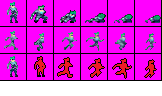
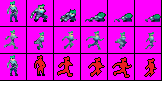
Update: Player Sprite/Height in-game

diff --git a/src/Players/Hero.java b/src/Players/Hero.java
@@ -37,7 +37,7 @@ public class Hero extends Player {
             put("STAND_RIGHT", new Frame[] {
                     new FrameBuilder(spriteSheet.getSprite(2, 0))
                             .withScale(3)
-                            .withBounds(8, 9, 8, 9)
+                            .withBounds(8, 10, 8, 10)
                             .build()
             });
 
@@ -45,34 +45,34 @@ public class Hero extends Player {
                     new FrameBuilder(spriteSheet.getSprite(2, 0))
                             .withScale(3)
                             .withImageEffect(ImageEffect.FLIP_HORIZONTAL)
-                            .withBounds(8, 9, 8, 9)
+                            .withBounds(8, 10, 8, 10)
                             .build()
             });
 
             put("WALK_RIGHT", new Frame[] {
                     new FrameBuilder(spriteSheet.getSprite(1, 0), 14)
                             .withScale(3)
-                            .withBounds(8, 9, 8, 9)
+                            .withBounds(8, 10, 8, 10)
                             .build(),
                     new FrameBuilder(spriteSheet.getSprite(1, 1), 14)
                             .withScale(3)
-                            .withBounds(8, 9, 8, 9)
+                            .withBounds(8, 10, 8, 10)
                             .build(),
                     new FrameBuilder(spriteSheet.getSprite(1, 2), 14)
                             .withScale(3)
-                            .withBounds(8, 9, 8, 9)
+                            .withBounds(8, 10, 8, 10)
                             .build(),
                     new FrameBuilder(spriteSheet.getSprite(1, 3), 14)
                             .withScale(3)
-                            .withBounds(8, 9, 8, 9)
+                            .withBounds(8, 10, 8, 10)
                             .build(),
                     new FrameBuilder(spriteSheet.getSprite(1, 4), 14)
                             .withScale(3)
-                            .withBounds(8, 9, 8, 9)
+                            .withBounds(8, 10, 8, 10)
                             .build(),
                     new FrameBuilder(spriteSheet.getSprite(1, 5), 14)
                             .withScale(3)
-                            .withBounds(8, 9, 8, 9)
+                            .withBounds(8, 10, 8, 10)
                             .build()
             });
 
@@ -80,39 +80,39 @@ public class Hero extends Player {
                     new FrameBuilder(spriteSheet.getSprite(1, 0), 14)
                             .withScale(3)
                             .withImageEffect(ImageEffect.FLIP_HORIZONTAL)
-                            .withBounds(8, 9, 8, 9)
+                            .withBounds(8, 10, 8, 10)
                             .build(),
                     new FrameBuilder(spriteSheet.getSprite(1, 1), 14)
                             .withScale(3)
                             .withImageEffect(ImageEffect.FLIP_HORIZONTAL)
-                            .withBounds(8, 9, 8, 9)
+                            .withBounds(8, 10, 8, 10)
                             .build(),
                     new FrameBuilder(spriteSheet.getSprite(1, 2), 14)
                             .withScale(3)
                             .withImageEffect(ImageEffect.FLIP_HORIZONTAL)
-                            .withBounds(8, 9, 8, 9)
+                            .withBounds(8, 10, 8, 10)
                             .build(),
                     new FrameBuilder(spriteSheet.getSprite(1, 3), 14)
                             .withScale(3)
                             .withImageEffect(ImageEffect.FLIP_HORIZONTAL)
-                            .withBounds(8, 9, 8, 9)
+                            .withBounds(8, 10, 8, 10)
                             .build(),
                     new FrameBuilder(spriteSheet.getSprite(1, 4), 14)
                             .withScale(3)
                             .withImageEffect(ImageEffect.FLIP_HORIZONTAL)
-                            .withBounds(8, 9, 8, 9)
+                            .withBounds(8, 10, 8, 10)
                             .build(),
                     new FrameBuilder(spriteSheet.getSprite(1, 5), 14)
                             .withScale(3)
                             .withImageEffect(ImageEffect.FLIP_HORIZONTAL)
-                            .withBounds(8, 9, 8, 9)
+                            .withBounds(8, 10, 8, 10)
                             .build()
             });
 
             put("JUMP_RIGHT", new Frame[] {
                     new FrameBuilder(spriteSheet.getSprite(1, 2))
                             .withScale(3)
-                            .withBounds(8, 9, 8, 9)
+                            .withBounds(8, 10, 8, 10)
                             .build()
             });
 
@@ -120,29 +120,29 @@ public class Hero extends Player {
                     new FrameBuilder(spriteSheet.getSprite(1, 2))
                             .withScale(3)
                             .withImageEffect(ImageEffect.FLIP_HORIZONTAL)
-                            .withBounds(8, 9, 8, 9)
+                            .withBounds(8, 10, 8, 10)
                             .build()
             });
 
             put("FALL_RIGHT", new Frame[] {
                     new FrameBuilder(spriteSheet.getSprite(1, 3))
                             .withScale(3)
-                            .withBounds(8, 9, 8, 9)
+                            .withBounds(8, 10, 8, 10)
                             .build()
             });
 
             put("FALL_LEFT", new Frame[] {
-                    new FrameBuilder(spriteSheet.getSprite(1, 3))
+                    new FrameBuilder(spriteSheet.getSprite(1, 3)) 
                             .withScale(3)
                             .withImageEffect(ImageEffect.FLIP_HORIZONTAL)
-                            .withBounds(8, 9, 8, 9)
+                            .withBounds(8, 10, 8, 10)
                             .build()
             });
 
             put("CROUCH_RIGHT", new Frame[] {
                     new FrameBuilder(spriteSheet.getSprite(1, 4))
                             .withScale(3)
-                            .withBounds(8, 12, 8, 6)
+                            .withBounds(8, 13, 8, 7)
                             .build()
             });
 
@@ -150,14 +150,14 @@ public class Hero extends Player {
                     new FrameBuilder(spriteSheet.getSprite(1, 4))
                             .withScale(3)
                             .withImageEffect(ImageEffect.FLIP_HORIZONTAL)
-                            .withBounds(8, 12, 8, 6)
+                            .withBounds(8, 13, 8, 7)
                             .build()
             });
 
             put("HURT_STAND_RIGHT", new Frame[] {
                     new FrameBuilder(spriteSheet.getSprite(2,1))
                             .withScale(3)
-                            .withBounds(8, 12, 8, 6)
+                            .withBounds(8, 13, 8, 7)
                             .build()
             });
 
@@ -165,26 +165,26 @@ public class Hero extends Player {
                     new FrameBuilder(spriteSheet.getSprite(2, 1))
                             .withScale(3)
                             .withImageEffect(ImageEffect.FLIP_HORIZONTAL)
-                            .withBounds(8, 12, 8, 6)
+                            .withBounds(8, 13, 8, 7)
                             .build()
             }); 
 
             put("HURT_WALK_RIGHT", new Frame[] {
                     new FrameBuilder(spriteSheet.getSprite(2, 2), 14)
                             .withScale(3)
-                            .withBounds(8, 9, 8, 9)
+                            .withBounds(8, 10, 8, 10)
                             .build(),
                     new FrameBuilder(spriteSheet.getSprite(2, 3), 14)
                             .withScale(3)
-                            .withBounds(8, 9, 8, 9)
+                            .withBounds(8, 10, 8, 10)
                             .build(),
                     new FrameBuilder(spriteSheet.getSprite(2, 4), 14)
                             .withScale(3)
-                            .withBounds(8, 9, 8, 9)
+                            .withBounds(8, 10, 8, 10)
                             .build(),
                     new FrameBuilder(spriteSheet.getSprite(2, 5), 14)
                             .withScale(3)
-                            .withBounds(8, 9, 8, 9)
+                            .withBounds(8, 10, 8, 10)
                             .build(),
             });
 
@@ -192,29 +192,29 @@ public class Hero extends Player {
                     new FrameBuilder(spriteSheet.getSprite(2, 2), 14)
                             .withScale(3)
                             .withImageEffect(ImageEffect.FLIP_HORIZONTAL)
-                            .withBounds(8, 9, 8, 9)
+                            .withBounds(8, 10, 8, 10)
                             .build(),
                     new FrameBuilder(spriteSheet.getSprite(2, 3), 14)
                             .withScale(3)
                             .withImageEffect(ImageEffect.FLIP_HORIZONTAL)
-                            .withBounds(8, 9, 8, 9)
+                            .withBounds(8, 10, 8, 10)
                             .build(),
                     new FrameBuilder(spriteSheet.getSprite(2, 4), 14)
                             .withScale(3)
                             .withImageEffect(ImageEffect.FLIP_HORIZONTAL)
-                            .withBounds(8, 9, 8, 9)
+                            .withBounds(8, 10, 8, 10)
                             .build(),
                     new FrameBuilder(spriteSheet.getSprite(2, 5), 14)
                             .withScale(3)
                             .withImageEffect(ImageEffect.FLIP_HORIZONTAL)
-                            .withBounds(8, 9, 8, 9)
+                            .withBounds(8, 10, 8, 10)
                             .build(),
             });
 
             put("HURT_JUMP_RIGHT", new Frame[] {
                     new FrameBuilder(spriteSheet.getSprite(2,3))
                             .withScale(3)
-                            .withBounds(8, 12, 8, 6)
+                            .withBounds(8, 13, 8, 7)
                             .build()
             });
 
@@ -222,14 +222,14 @@ public class Hero extends Player {
                     new FrameBuilder(spriteSheet.getSprite(2, 3))
                             .withScale(3)
                             .withImageEffect(ImageEffect.FLIP_HORIZONTAL)
-                            .withBounds(8, 12, 8, 6)
+                            .withBounds(8, 13, 8, 7)
                             .build()
             });
 
             put("HURT_FALL_RIGHT", new Frame[] {
                     new FrameBuilder(spriteSheet.getSprite(2, 4))
                             .withScale(3)
-                            .withBounds(8, 9, 8, 9)
+                            .withBounds(8, 10, 8, 10)
                             .build()
             });
 
@@ -237,7 +237,7 @@ public class Hero extends Player {
                     new FrameBuilder(spriteSheet.getSprite(2, 4))
                             .withScale(3)
                             .withImageEffect(ImageEffect.FLIP_HORIZONTAL)
-                            .withBounds(8, 9, 8, 9)
+                            .withBounds(8, 10, 8, 10)
                             .build()
             });
 
@@ -292,7 +292,7 @@ public class Hero extends Player {
             put("SWIM_STAND_RIGHT", new Frame[] {
                     new FrameBuilder(spriteSheet.getSprite(2, 0))
                             .withScale(3)
-                            .withBounds(8, 9, 8, 9)
+                            .withBounds(8, 10, 8, 10)
                             .build()
             });
 
@@ -300,7 +300,7 @@ public class Hero extends Player {
                     new FrameBuilder(spriteSheet.getSprite(2, 0))
                             .withScale(3)
                             .withImageEffect(ImageEffect.FLIP_HORIZONTAL)
-                            .withBounds(8, 9, 8, 9)
+                            .withBounds(8, 10, 8, 10)
                             .build()
             });
         }};

diff --git a/src/Level/Player.java b/src/Level/Player.java
@@ -361,7 +361,7 @@ public abstract class Player extends GameObject{
             movementSpeed = -4;
         }
         if (playerState == PlayerState.CROUCHING){
-            spawnY += 5;
+            spawnY += 7;
         }
         // Create a fireball and add it to the map
         PlayerFireball fireball = new PlayerFireball(spawnX, spawnY, movementSpeed, existenceFrames);
